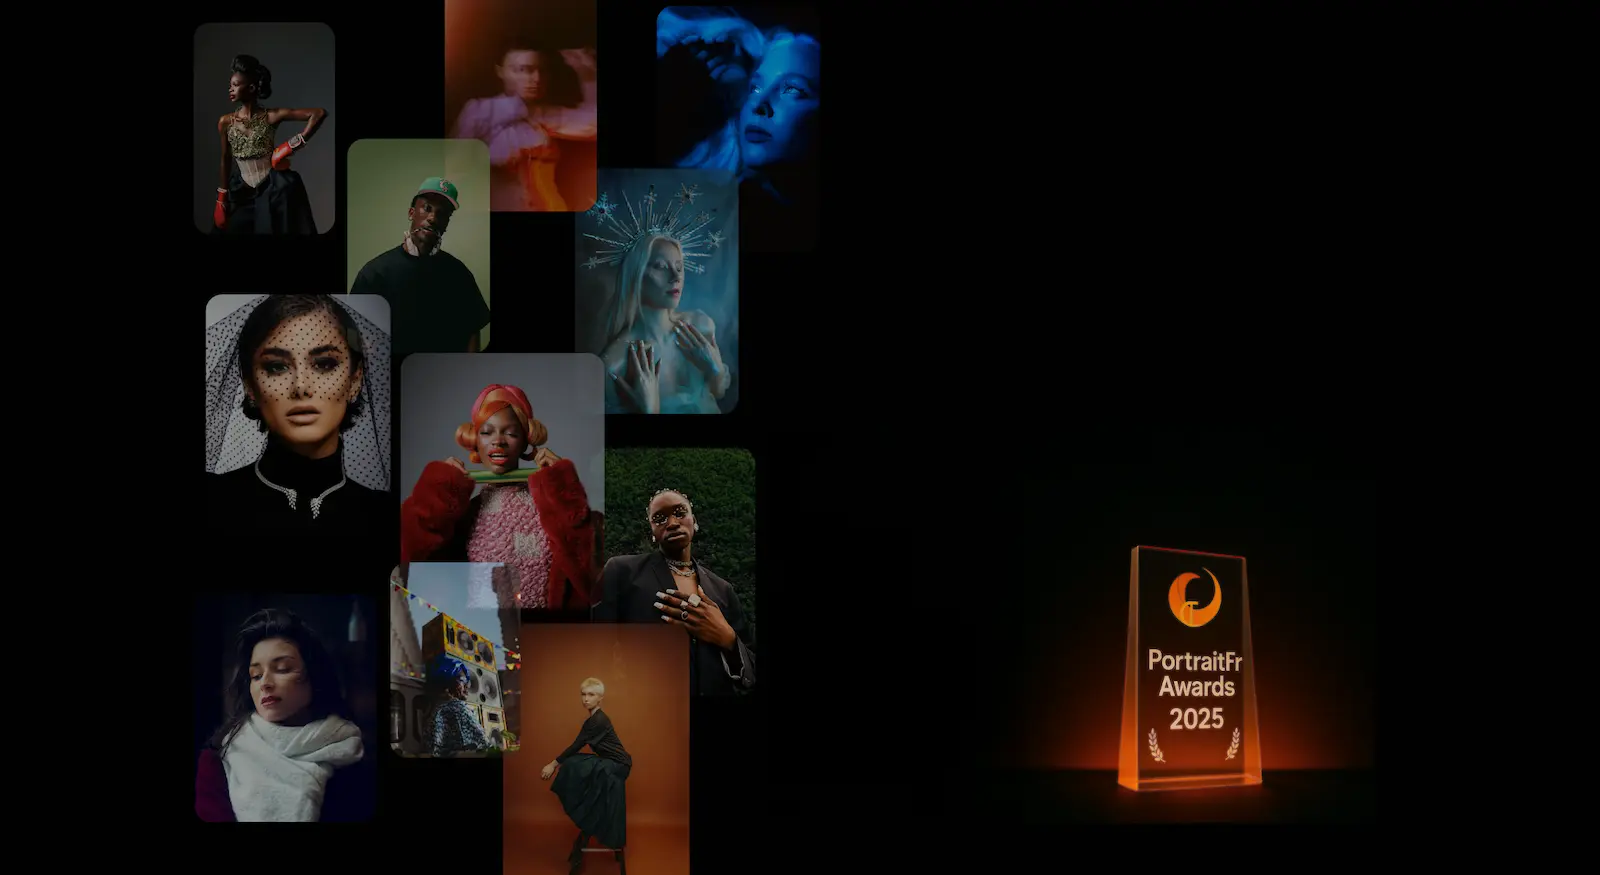
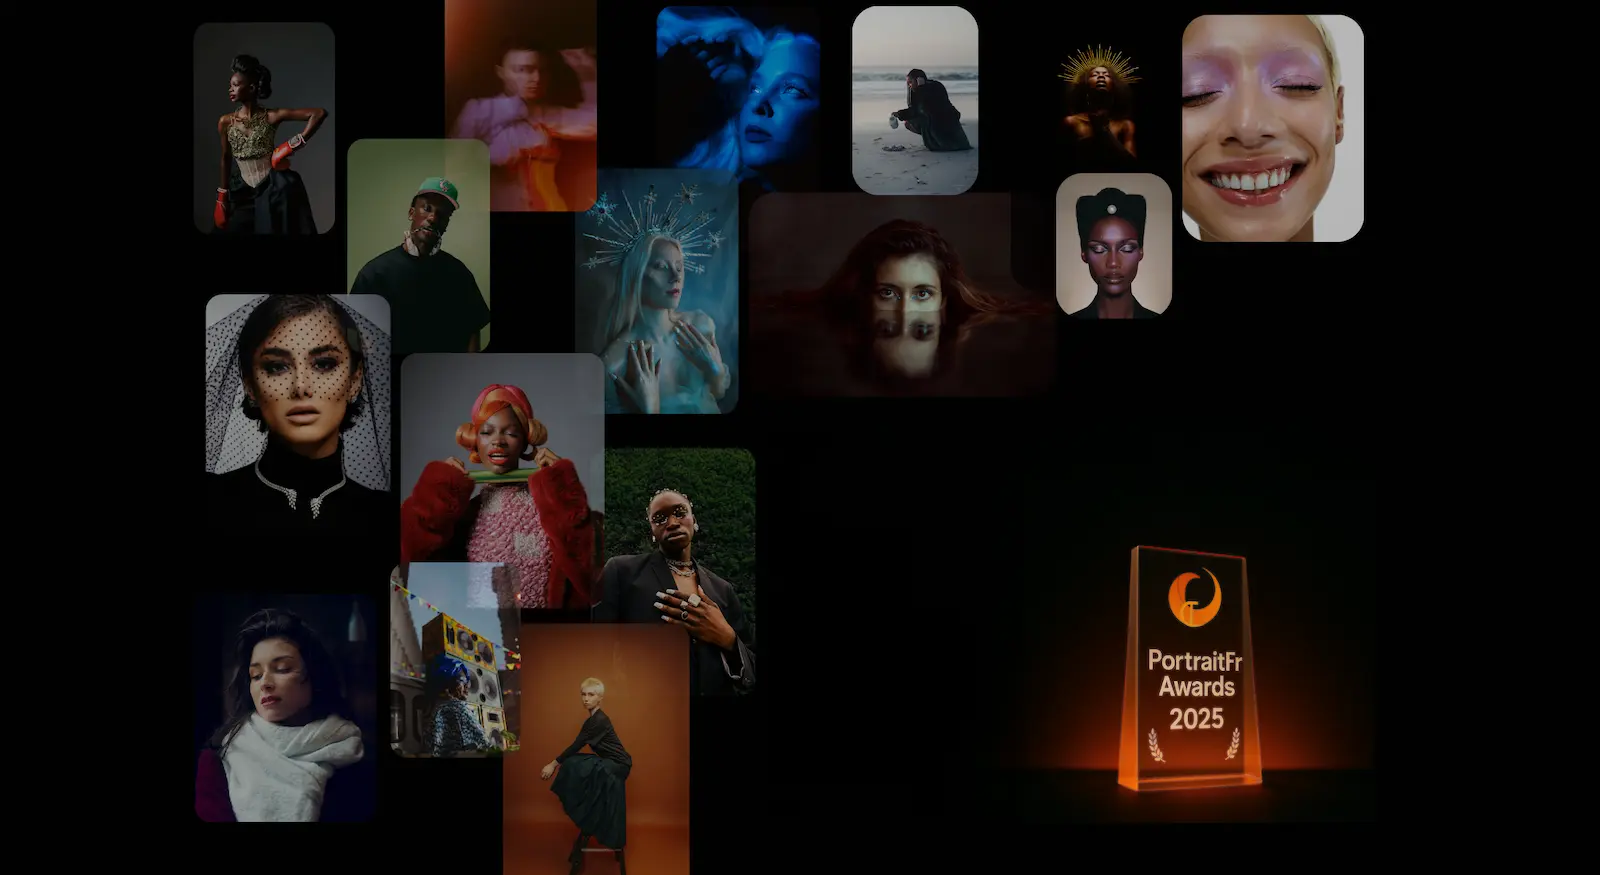
modification de la page encoreee et ajout des images de fonds avec gestions du responsive

Changed region(s): [[0.4688, 0.0, 0.875, 0.432]]

diff --git a/Frontend/portraitfr-frontend/src/app/page.tsx b/Frontend/portraitfr-frontend/src/app/page.tsx
@@ -2,17 +2,39 @@
 "use client"
 
 import Link from "next/link"
+import Image from "next/image"
+import { useEffect, useState } from "react"
 
 export default function HomePage() {
+  const [isMobile, setIsMobile] = useState(false)
+
+  useEffect(() => {
+    const checkMobile = () => {
+      setIsMobile(window.innerWidth < 768)
+    }
+    
+    // Vérifie au chargement
+    checkMobile()
+    
+    // Écoute les changements de taille
+    window.addEventListener('resize', checkMobile)
+    
+    // Nettoyage
+    return () => window.removeEventListener('resize', checkMobile)
+  }, [])
+
   return (
     <div className="relative min-h-screen overflow-hidden">
-      {/* Arrière-plan sans flou */}
-      <div 
-        className="absolute inset-0 bg-cover bg-center opacity-70"
-        style={{ 
-          backgroundImage: "url(/background.webp)",
-        }}
-      />
+      {/* Arrière-plan conditionnel */}
+      <div className="absolute inset-0 opacity-80">
+        <Image
+          src={isMobile ? "/backgroundmobile.webp" : "/background.webp"}
+          alt="Background"
+          fill
+          className="object-cover"
+          priority
+        />
+      </div>
       
       {/* Overlay sombre */}
       <div className="absolute inset-0 bg-black/30" />
@@ -32,9 +54,9 @@ export default function HomePage() {
         {/* Texte descriptif centré */}
         <div className="max-w-3xl mx-auto">
           <p className="text-xl md:text-2xl leading-relaxed mb-8">
-            6 Trophées seront remis lors de la première édition de la Cérémonie Portrait Fr Awards. 
-            Les gagnant.e.s de la majorité d'entres elles sont élu.e.s par un vote qui mêle les 
-            membres de PortraitFr, d'un jury de professionnel et du grand public.
+            6 trophées seront remis lors de la première édition de la cérémonie PortraitFr Awards. 
+            Les gagnant·e·s de la majorité d'entre eux/elles sont élu·e·s par un vote mêlant les 
+            membres de PortraitFr, un jury de professionnels et le grand public.
           </p>
 
           {/* Boutons d'action centrés */}

diff --git a/Frontend/portraitfr-frontend/src/app/participer/page.tsx b/Frontend/portraitfr-frontend/src/app/participer/page.tsx
@@ -136,8 +136,8 @@ export default function ParticipantForm() {
       <div 
         className="absolute inset-0 bg-cover bg-center bg-no-repeat"
         style={{
-          backgroundImage: "url(/imagePortraitFr/img5.jpg)",
-          filter: "blur(8px)",
+          backgroundImage: "url(/imagePortraitFr/img5.webp",
+          filter: "blur(6px)",
           transform: "scale(1.1)",
         }}
       />

diff --git a/Frontend/portraitfr-frontend/src/app/participants/page.tsx b/Frontend/portraitfr-frontend/src/app/participants/page.tsx
@@ -124,7 +124,7 @@ export default function ParticipantsPage() {
       <div 
         className="absolute inset-0 bg-cover bg-center bg-no-repeat"
         style={{
-          backgroundImage: 'url(/imagePortraitFr/img3.jpg)',
+          backgroundImage: 'url(/imagePortraitFr/img5.webp)',
           filter: 'blur(8px)',
           transform: 'scale(1.1)',
         }}

diff --git a/Frontend/portraitfr-frontend/src/app/focus/page.tsx b/Frontend/portraitfr-frontend/src/app/focus/page.tsx
@@ -27,7 +27,7 @@ export default function FocusPage() {
       <div 
         className="absolute inset-0 bg-cover bg-center bg-no-repeat"
         style={{
-          backgroundImage: 'url(/imagePortraitFr/img20.jpg)',
+          backgroundImage: 'url(/imagePortraitFr/img5.webp)',
           filter: 'blur(8px)',
           transform: 'scale(1.1)',
         }}

diff --git a/Frontend/portraitfr-frontend/src/app/infos/awards/page.tsx b/Frontend/portraitfr-frontend/src/app/infos/awards/page.tsx
@@ -11,7 +11,7 @@ export default function AwardsPage() {
       <div 
         className="absolute inset-0 bg-cover bg-center bg-no-repeat"
         style={{
-          backgroundImage: 'url(/imagePortraitFr/img9.jpg)',
+          backgroundImage: 'url(/imagePortraitFr/img20.jpg)',
           filter: 'blur(8px)',
           transform: 'scale(1.1)',
         }}

diff --git a/Frontend/portraitfr-frontend/src/app/billet/page.tsx b/Frontend/portraitfr-frontend/src/app/billet/page.tsx
@@ -9,7 +9,7 @@ export default function BilletPage() {
       <div 
         className="absolute inset-0 bg-cover bg-center bg-no-repeat"
         style={{
-          backgroundImage: "url(/imagePortraitFr/img5.jpg)",
+          backgroundImage: "url(/imagePortraitFr/img5.webp)",
           filter: "blur(8px)",
           transform: "scale(1.1)",
         }}

diff --git a/Frontend/portraitfr-frontend/src/app/infos/partenaires/page.tsx b/Frontend/portraitfr-frontend/src/app/infos/partenaires/page.tsx
@@ -9,7 +9,7 @@ export default function PartenairesPage() {
       <div
         className="absolute inset-0 bg-cover bg-center"
         style={{
-          backgroundImage: 'url(/imagePortraitFr/img10.jpg)',
+          backgroundImage: 'url(/imagePortraitFr/img5.webp)',
           filter: 'blur(8px)',
           transform: 'scale(1.1)',
         }}

diff --git a/Frontend/portraitfr-frontend/src/app/infos/faq/page.tsx b/Frontend/portraitfr-frontend/src/app/infos/faq/page.tsx
@@ -62,7 +62,7 @@ export default function FAQPage() {
       <div
         className="absolute inset-0 bg-cover bg-center"
         style={{
-          backgroundImage: 'url(/imagePortraitFr/img17.jpg)',
+          backgroundImage: 'url(/imagePortraitFr/img9.jpg)',
           filter: 'blur(8px)',
           transform: 'scale(1.1)',
         }}
